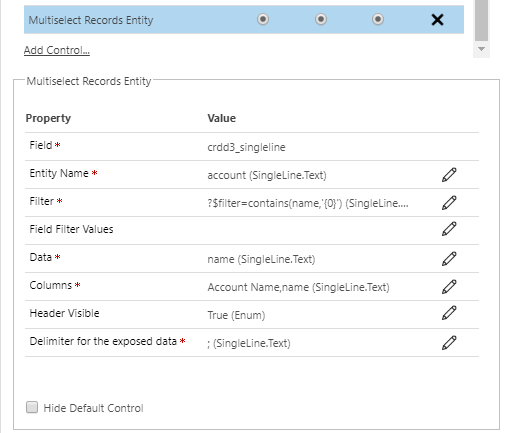
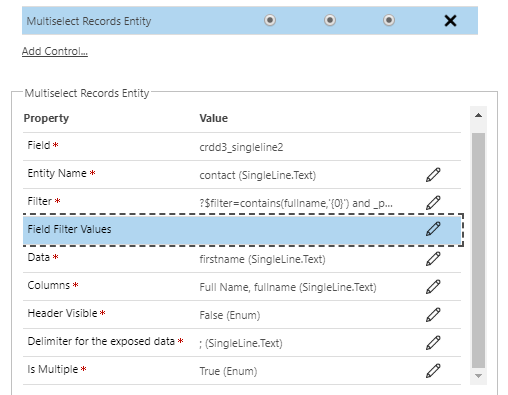
Add is multiple to the configuration and changed the images to include this

diff --git a/MultiselectRecordsEntity/index.ts b/MultiselectRecordsEntity/index.ts
@@ -40,7 +40,8 @@ export class MultiselectRecordsEntity implements ComponentFramework.StandardCont
 		data: "",
 		delimiter: "",
 		isControlDisabled: false,
-		isControlVisible: true
+		isControlVisible: true,
+		isMultiple: true
 	}
 
 	/**
@@ -73,6 +74,8 @@ export class MultiselectRecordsEntity implements ComponentFramework.StandardCont
 		const contextPage = (context as any).page;
 		this._entityRecordId = contextPage.entityId;
 		this._entityRecordName = contextPage.entityTypeName;
+		const isMultiple = this._context.parameters.isMultiple.raw || "True";
+		this.props.isMultiple = isMultiple == "True" ? true : false;
 		this._isFake = false;
 	}
 

diff --git a/MultiselectRecordsEntity/MultiselectRecords.tsx b/MultiselectRecordsEntity/MultiselectRecords.tsx
@@ -167,7 +167,7 @@ export class MultiselectRecords extends React.Component<any> {
                         columns={this._columns}
                         setKey="set"
                         selection={this._selection}
-                        selectionMode={SelectionMode.multiple}
+                        selectionMode={this.props.isMultiple ? SelectionMode.multiple : SelectionMode.single}
                         layoutMode={DetailsListLayoutMode.justified}
                         selectionPreservedOnEmptyClick={true}
                         ariaLabelForSelectionColumn="Toggle selection"

diff --git a/README.md b/README.md
@@ -25,6 +25,7 @@ This can be useful to retrieve a "list of records" from a single field and it ca
 6. Columns -> To retrieve and display the data you need to set the columns with the following syntax: Display Name, fieldName; Account Name,name
 7. Header Visible -> Set if the header will be visible in the list displayed.
 8. Delimiter for the exposed data -> This will be the delimiter to split the data in your field (1)
+9. Is Multiple -> If true you can select all the records you want, if false, only one record can be selected. (True = Multiple | False = Single)
 
 ## Filter section
 
